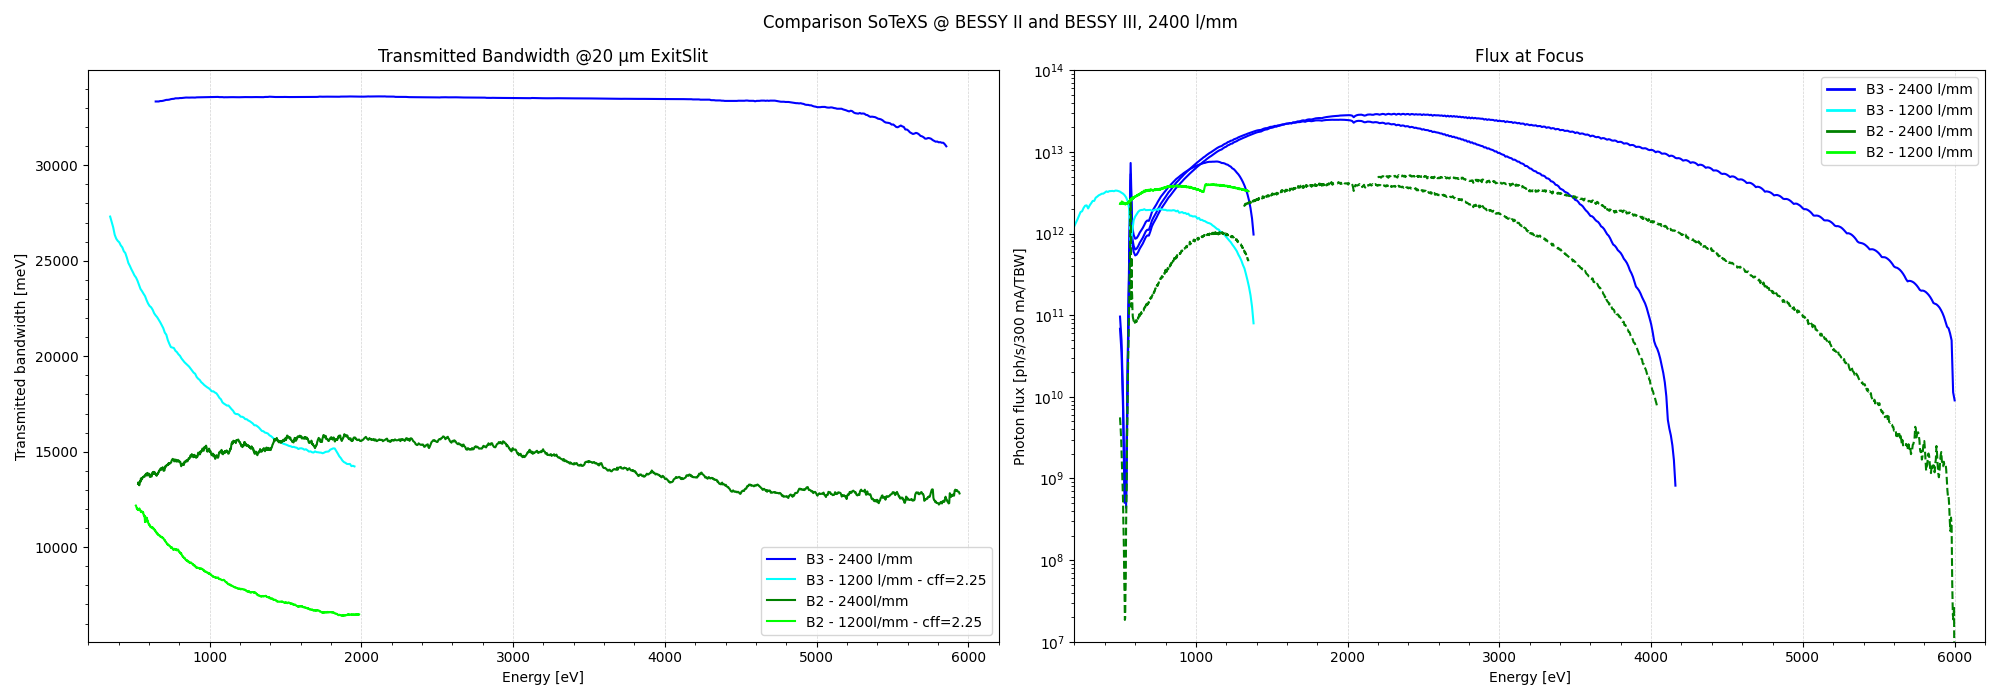
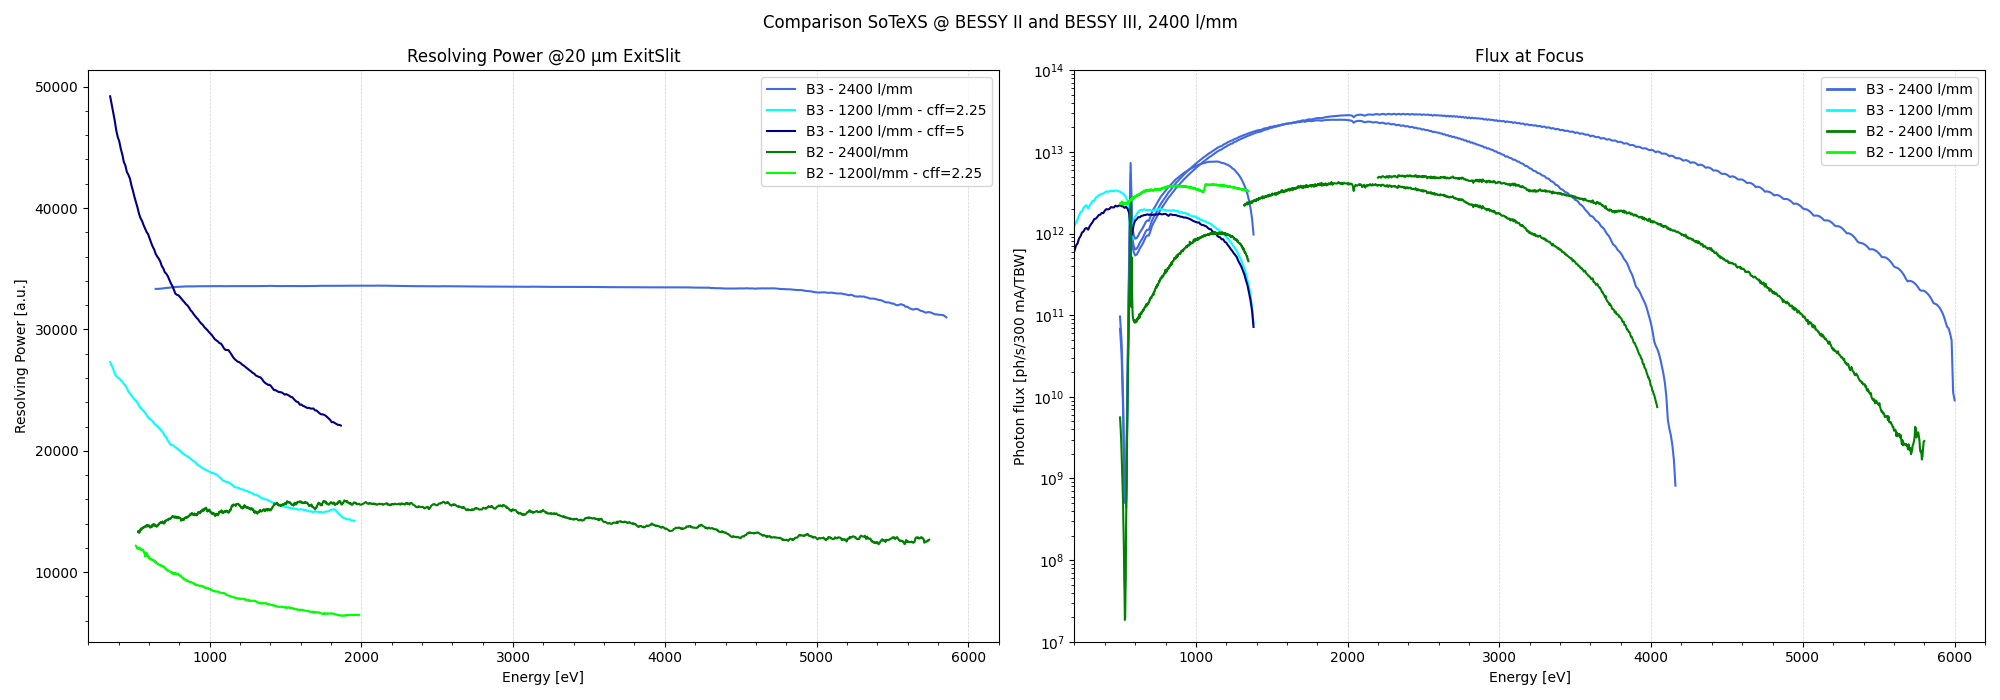
eval

diff --git a/beamlines/Signature2-Liquid_Interface/simulations/comparison_with_sotexs_BII/eval_2400_talk.py b/beamlines/Signature2-Liquid_Interface/simulations/comparison_with_sotexs_BII/eval_2400_talk.py
@@ -36,7 +36,7 @@ BL_df_1200 = BL_df_1200[BL_df_1200['PG.cFactor'] == 2.25]
 # Read CSV-File of the Beamline Simulation
 BL_file_path = os.path.join('RAYPy_Simulation_2400', 'DetectorAtFocus_RawRaysOutgoing.csv')
 BL_df_2 = pd.read_csv(BL_file_path)
-
+BL_df_2 = BL_df_2[BL_df_2['PhotonEnergy'] <= 5800]
 # Read CSV-File of the Beamline Simulation
 BL_file_path = os.path.join('RAYPy_Simulation_1200_Pt', 'DetectorAtFocus_RawRaysOutgoing.csv')
 BL_df_2_1200 = pd.read_csv(BL_file_path)
@@ -102,7 +102,7 @@ x_range = [200, 6200]
 # for ind,harm in enumerate(harms):
 #     ax3.plot(undulator_2[f'Energy{harm}[eV]'], 
 #              undulator_2[f'Photons{harm}'],
-#              color=colors[ind], linestyle='dashed',
+#              color=colors[ind], linestyle='solid',
 #              label=f'B2-Harm. {harm}')
     
 # ax3.legend()
@@ -138,14 +138,12 @@ fig.suptitle('Comparison SoTeXS @ BESSY II and BESSY III, 2400 l/mm')
 ax3 = axs[0]
 
 window = 30
-colors = ['red', 'blue', 'green']
-color_B2 = ['salmon', 'skyblue', 'lightgreen']
 
 ax3.plot(mov_av(BL_df['PhotonEnergy'], window), 
              mov_av(BL_df['Bandwidth']*1000, window),
              linestyle='solid',
              label=f'B3 - 2400 l/mm',
-             color='blue')
+             color='royalblue')
 
 ax3.plot(mov_av(BL_df_1200['PhotonEnergy'], window), 
              mov_av(BL_df_1200['Bandwidth']*1000, window),
@@ -184,7 +182,7 @@ for ind,harm in enumerate(harms):
     filtered_df = BL_df[(BL_df['PhotonEnergy'] >= Emin_harm) & (BL_df['PhotonEnergy'] <= Emax_harm)]
     ax4.plot(mov_av(filtered_df['PhotonEnergy'], window), 
              mov_av(filtered_df[f'PhotonFlux{harm}'], window),
-             color='blue', linestyle='solid',
+             color='royalblue', linestyle='solid',
              label=f'B3 2400 l/mm')
 
 for ind,harm in enumerate([1]):
@@ -203,7 +201,7 @@ for ind,harm in enumerate(harms):
     filtered_df = BL_df_2[(BL_df_2['PhotonEnergy'] >= Emin_harm) & (BL_df_2['PhotonEnergy'] <= Emax_harm)]
     ax4.plot(mov_av(filtered_df['PhotonEnergy'], window), 
                 mov_av(filtered_df[f'PhotonFlux{harm}'], window),
-                color='green', linestyle='dashed',
+                color='green', linestyle='solid',
                 label=f'B2-Harm. {harm}')
 
 for ind,harm in enumerate([1]):
@@ -219,7 +217,7 @@ ax4.set_title('Flux at Focus')
 ax4.set_xlabel('Energy [eV]')
 ax4.set_ylabel('Photon flux [ph/s/300 mA/TBW]')
 custom_lines = [
-    Line2D([0], [0], color='blue', linestyle='solid', lw=2),
+    Line2D([0], [0], color='royalblue', linestyle='solid', lw=2),
     Line2D([0], [0], color='cyan', linestyle='solid', lw=2),
     Line2D([0], [0], color='green', linestyle='solid', lw=2),
     Line2D([0], [0], color='lime', linestyle='solid', lw=2)
@@ -250,20 +248,25 @@ fig.suptitle('Comparison SoTeXS @ BESSY II and BESSY III, 2400 l/mm')
 ax3 = axs[0]
 
 window = 30
-colors = ['red', 'blue', 'green']
-color_B2 = ['salmon', 'skyblue', 'lightgreen']
+
 
 ax3.plot(mov_av(BL_df['PhotonEnergy'], window), 
              mov_av(BL_df['PhotonEnergy']/BL_df['Bandwidth'], window),
              linestyle='solid',
              label=f'B3 - 2400 l/mm',
-             color='blue')
+             color='royalblue')
 
 ax3.plot(mov_av(BL_df_1200['PhotonEnergy'], window), 
              mov_av(BL_df_1200['PhotonEnergy']/BL_df_1200['Bandwidth'], window),
              linestyle='solid',
              label=f'B3 - 1200 l/mm - cff=2.25',
              color='cyan')
+
+ax3.plot(mov_av(BL_df_1200_5['PhotonEnergy'], window), 
+             mov_av(BL_df_1200_5['PhotonEnergy']/BL_df_1200_5['Bandwidth'], window),
+             linestyle='solid',
+             label=f'B3 - 1200 l/mm - cff=5',
+             color='navy')
 
 ax3.plot(mov_av(BL_df_2['PhotonEnergy'], window), 
              mov_av(BL_df_2['PhotonEnergy']/BL_df_2['Bandwidth'], window),
@@ -296,7 +299,7 @@ for ind,harm in enumerate(harms):
     filtered_df = BL_df[(BL_df['PhotonEnergy'] >= Emin_harm) & (BL_df['PhotonEnergy'] <= Emax_harm)]
     ax4.plot(mov_av(filtered_df['PhotonEnergy'], window), 
              mov_av(filtered_df[f'PhotonFlux{harm}'], window),
-             color='blue', linestyle='solid',
+             color='royalblue', linestyle='solid',
              label=f'B3 2400 l/mm')
 
 for ind,harm in enumerate([1]):
@@ -306,7 +309,16 @@ for ind,harm in enumerate([1]):
     ax4.plot(mov_av(filtered_df['PhotonEnergy'], window), 
              mov_av(filtered_df[f'PhotonFlux{harm}'], window),
              color='cyan', linestyle='solid',
-             label=f'B3 1200 l/mm')
+             label=f'B3 1200 l/mm cff 2.25')
+    
+for ind,harm in enumerate([1]):
+    Emin_harm = undulator_3[f'Energy{harm}[eV]'].min()
+    Emax_harm = undulator_3[f'Energy{harm}[eV]'].max()
+    filtered_df = BL_df_1200_5[(BL_df_1200_5['PhotonEnergy'] >= Emin_harm) & (BL_df_1200_5['PhotonEnergy'] <= Emax_harm)]
+    ax4.plot(mov_av(filtered_df['PhotonEnergy'], window), 
+             mov_av(filtered_df[f'PhotonFlux{harm}'], window),
+             color='navy', linestyle='solid',
+             label=f'B3 1200 l/mm - cff 5')
     
     
 for ind,harm in enumerate(harms):    
@@ -315,7 +327,7 @@ for ind,harm in enumerate(harms):
     filtered_df = BL_df_2[(BL_df_2['PhotonEnergy'] >= Emin_harm) & (BL_df_2['PhotonEnergy'] <= Emax_harm)]
     ax4.plot(mov_av(filtered_df['PhotonEnergy'], window), 
                 mov_av(filtered_df[f'PhotonFlux{harm}'], window),
-                color='green', linestyle='dashed',
+                color='green', linestyle='solid',
                 label=f'B2-Harm. {harm}')
 
 for ind,harm in enumerate([1]):
@@ -331,7 +343,7 @@ ax4.set_title('Flux at Focus')
 ax4.set_xlabel('Energy [eV]')
 ax4.set_ylabel('Photon flux [ph/s/300 mA/TBW]')
 custom_lines = [
-    Line2D([0], [0], color='blue', linestyle='solid', lw=2),
+    Line2D([0], [0], color='royalblue', linestyle='solid', lw=2),
     Line2D([0], [0], color='cyan', linestyle='solid', lw=2),
     Line2D([0], [0], color='green', linestyle='solid', lw=2),
     Line2D([0], [0], color='lime', linestyle='solid', lw=2)
@@ -353,9 +365,58 @@ plt.close()
 
 
 
+############# undulator
+from pathlib import Path
 
+fig, (axs) = plt.subplots(1, 2, figsize=(20, 7))
+fig.suptitle('Comparison SoTeXS @ BESSY II and BESSY III, 2400 l/mm')
 
+#######
+undulator_file_path = os.path.abspath(
+    os.path.join(Path(__file__).resolve().parents[4], 
+                 'undulators',
+                 'UndulatorFiles_BESSY_III',
+                 'IVUE42-C.csv')
+)
+undulator_C = pd.read_csv(undulator_file_path)
 
+#######
+undulator_file_path = os.path.abspath(
+    os.path.join(Path(__file__).resolve().parents[4], 
+                 'undulators',
+                 'UndulatorFiles_BESSY_III',
+                 'IVUE42-HL.csv')
+)
+undulator_HL = pd.read_csv(undulator_file_path)
+
+#######
+undulator_file_path = os.path.abspath(
+    os.path.join(Path(__file__).resolve().parents[4], 
+                 'undulators',
+                 'UndulatorFiles_BESSY_III',
+                 'IVUE42-IN.csv')
+)
+undulator_IN = pd.read_csv(undulator_file_path)
+
+#######
+undulator_file_path = os.path.abspath(
+    os.path.join(Path(__file__).resolve().parents[4], 
+                 'undulators',
+                 'UndulatorFiles_BESSY_III',
+                 'IVUE42-VL.csv')
+)
+undulator_VL = pd.read_csv(undulator_file_path)
+
+for ind,harm in enumerate(harms):
+    ax3.plot(undulator_C[f'Energy{harm}[eV]'], 
+             undulator_C[f'Photons{harm}'],
+             color='red', linestyle='solid')
+
+# Save the the figure
+plt.tight_layout()
+plt.savefig('plot/talk/LiquidInterface_undulator.png')
+# plt.show()
+plt.close()
 
 
 
@@ -380,7 +441,7 @@ plt.close()
 #     filtered_df = BL_df_2[(BL_df_2['PhotonEnergy'] >= Emin_harm) & (BL_df_2['PhotonEnergy'] <= Emax_harm)]
 #     ax3.plot(mov_av(filtered_df['PhotonEnergy'], window), 
 #                 mov_av(filtered_df['Bandwidth']*1000, window),
-#                 color=color_B2[ind], linestyle='dashed',
+#                 color=color_B2[ind], linestyle='solid',
 #                 label=f'B2-Harm. {harm}')
 
 
@@ -409,7 +470,7 @@ plt.close()
 #     filtered_df = BL_df_2[(BL_df_2['PhotonEnergy'] >= Emin_harm) & (BL_df_2['PhotonEnergy'] <= Emax_harm)]
 #     ax4.plot(mov_av(filtered_df['PhotonEnergy'], window), 
 #                 mov_av(filtered_df[f'PhotonFlux{harm}'], window),
-#                 color=color_B2[ind], linestyle='dashed',
+#                 color=color_B2[ind], linestyle='solid',
 #                 label=f'B2-Harm. {harm}')
     
 
@@ -438,7 +499,7 @@ plt.close()
 #     filtered_df = BL_df_2[(BL_df_2['PhotonEnergy'] >= Emin_harm) & (BL_df_2['PhotonEnergy'] <= Emax_harm)]
 #     ax5.plot(mov_av(filtered_df['PhotonEnergy'], window),
 #              mov_av(filtered_df[f'PhotonEnergy']/filtered_df[f'Bandwidth'], window),
-#                 color=color_B2[ind], linestyle='dashed',
+#                 color=color_B2[ind], linestyle='solid',
 #                 label=f'B2-Harm. {harm}')
 
 # ax5.set_title(f'Resolving Power @ {int(SlitSize[0]*1000)} µm ExitSlit')
@@ -468,7 +529,7 @@ plt.close()
 #     foc_area = (filtered_df['VerticalFocusFWHM']*filtered_df['HorizontalFocusFWHM'])*1000
 #     ax6.plot(filtered_df['PhotonEnergy'],
 #              filtered_df[f'PhotonFlux{harm}']/foc_area,
-#                 color=color_B2[ind], linestyle='dashed',
+#                 color=color_B2[ind], linestyle='solid',
 #                 label=f'B2-Harm. {harm}')
     
 # ax6.set_title('Flux Density')
@@ -488,7 +549,7 @@ plt.close()
 
 # ax7.plot(mov_av(BL_df_2['PhotonEnergy'], window),
 #          mov_av(BL_df_2['HorizontalFocusFWHM']*1000, window),
-#          label='B2', color='violet', linestyle='dashed')
+#          label='B2', color='violet', linestyle='solid')
 
 # ax7.set_title('Horizontal Focus Size')
 # ax7.set_xlabel('Energy [eV]')
@@ -510,7 +571,7 @@ plt.close()
 
 # ax8.plot(mov_av(BL_df_2['PhotonEnergy'], window),
 #          mov_av(BL_df_2['VerticalFocusFWHM']*1000, window),
-#          label='B2', color='peru', linestyle='dashed')
+#          label='B2', color='peru', linestyle='solid')
 
 # ax8.set_title('Vertical Focus Size')
 # ax8.set_xlabel('Energy [eV]')
